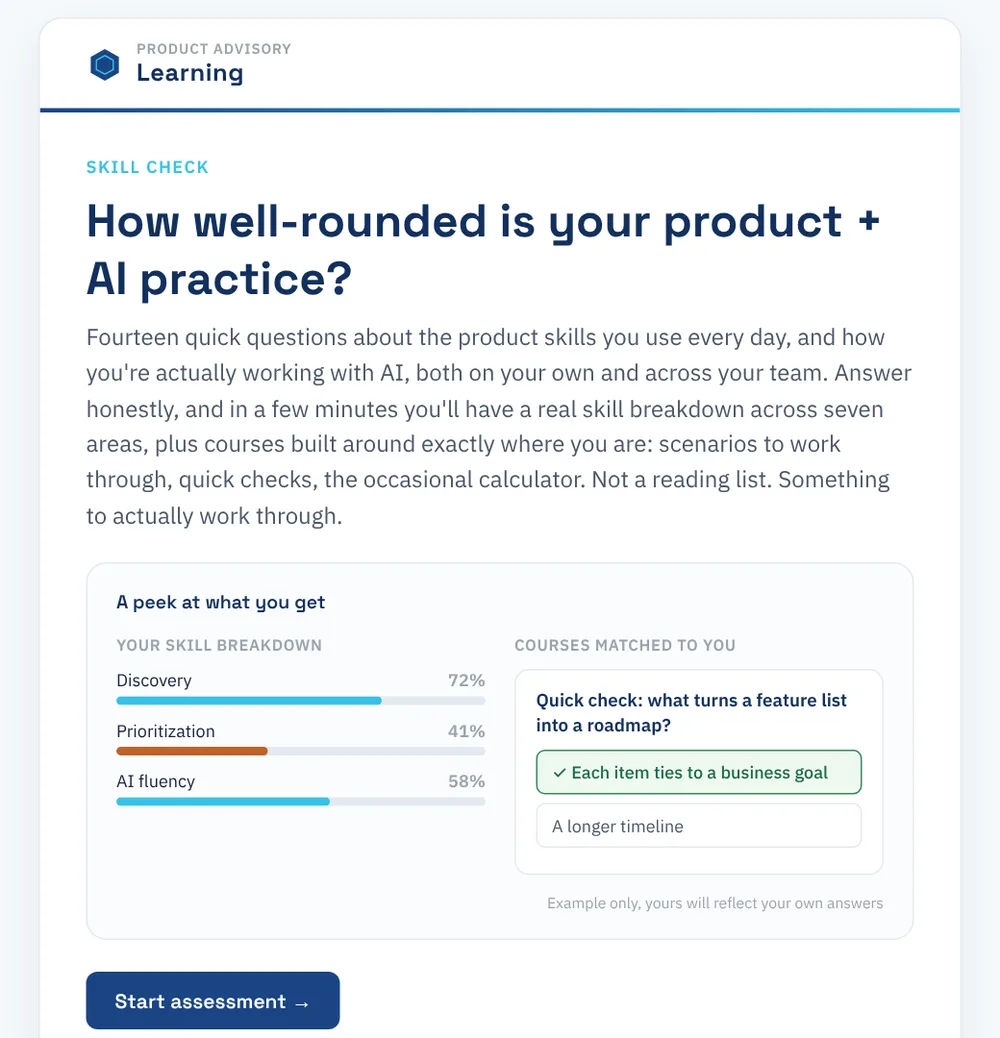
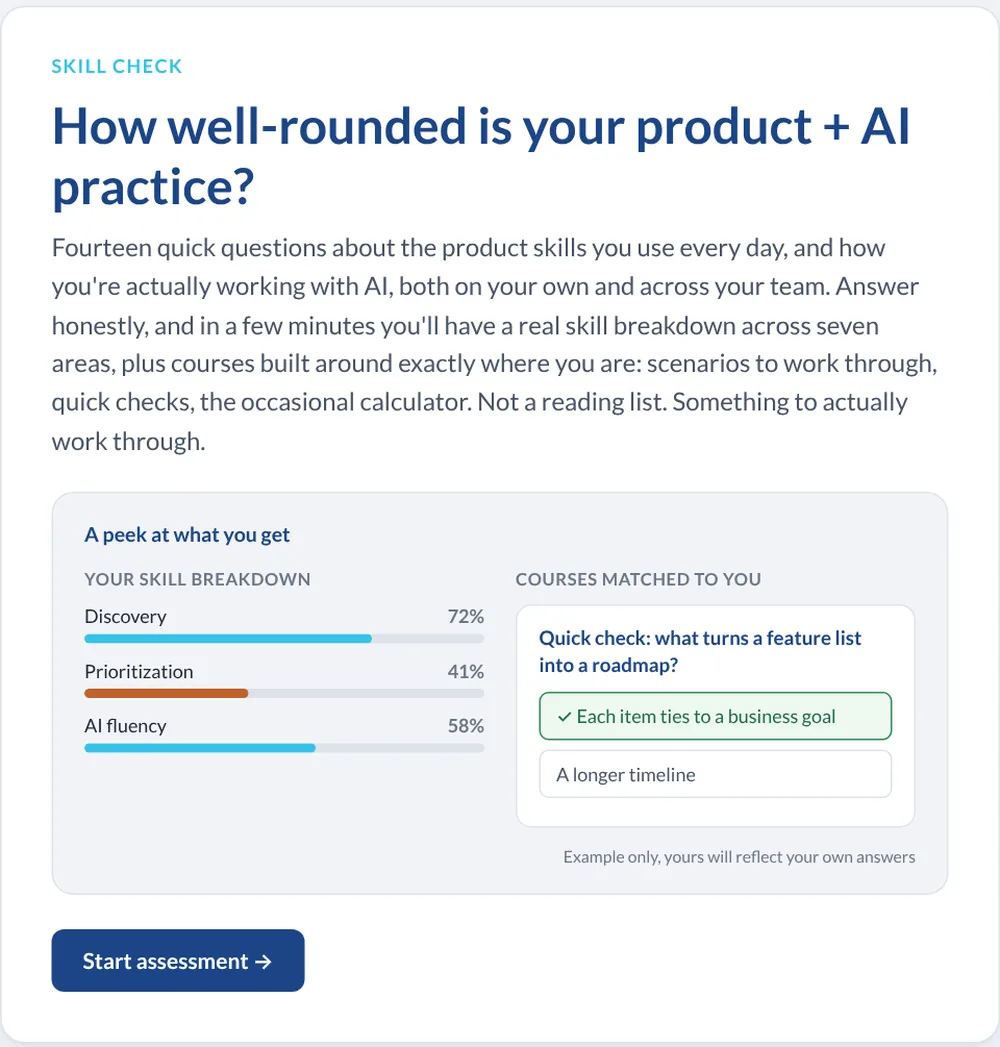
Work: refresh the assessment previews to the app's current look
Claude-Session: https://claude.ai/code/session_01H9Aqm6upnjq2tVp2gNzDcN

diff --git a/work.html b/work.html
@@ -90,7 +90,7 @@
                   <p>A self-assessment that places product managers by level and sends them to the learning that fits.</p>
                   <div class="tags"><span class="tag accent">Built by me</span><span class="tag">AI grading</span><span class="tag">Learning platform</span></div>
                 </div>
-                <img class="case-thumb" src="assets/img/previews/results.webp" alt="" width="1000" height="562" loading="lazy">
+                <img class="case-thumb" src="assets/img/previews/results.webp" alt="" width="1000" height="1095" loading="lazy">
                 <span class="plus" aria-hidden="true">+</span>
               </summary>
               <div class="case-body">
@@ -115,10 +115,10 @@
                 <div class="app-shots">
                   <h4>Inside the app</h4>
                   <div class="shot-grid">
-                    <a class="shot" href="assets/img/previews/assess.webp" target="_blank" rel="noopener"><img src="assets/img/previews/assess.webp" alt="Screenshot of the the skill check screen" width="1000" height="1038" loading="lazy"><span><b>The skill check</b>Fourteen questions across seven skill areas.</span><span class="sr-only"> (opens the full image in a new tab)</span></a>
-                    <a class="shot" href="assets/img/previews/results.webp" target="_blank" rel="noopener"><img src="assets/img/previews/results.webp" alt="Screenshot of the your results screen" width="1000" height="562" loading="lazy"><span><b>Your results</b>A score per area, with a strength and a growth area.</span><span class="sr-only"> (opens the full image in a new tab)</span></a>
-                    <a class="shot" href="assets/img/previews/lesson.webp" target="_blank" rel="noopener"><img src="assets/img/previews/lesson.webp" alt="Screenshot of the lessons screen" width="1000" height="1062" loading="lazy"><span><b>Lessons</b>Short lessons that ask you to predict before you read.</span><span class="sr-only"> (opens the full image in a new tab)</span></a>
-                    <a class="shot" href="assets/img/previews/company.webp" target="_blank" rel="noopener"><img src="assets/img/previews/company.webp" alt="Screenshot of the company report screen" width="1000" height="632" loading="lazy"><span><b>Company report</b>Plain-English takeaways and a funnel for admins.</span><span class="sr-only"> (opens the full image in a new tab)</span></a>
+                    <a class="shot" href="assets/img/previews/assess.webp" target="_blank" rel="noopener"><img src="assets/img/previews/assess.webp" alt="Screenshot of the the skill check screen" width="1000" height="1047" loading="lazy"><span><b>The skill check</b>Fourteen questions across seven skill areas.</span><span class="sr-only"> (opens the full image in a new tab)</span></a>
+                    <a class="shot" href="assets/img/previews/results.webp" target="_blank" rel="noopener"><img src="assets/img/previews/results.webp" alt="Screenshot of the your results screen" width="1000" height="1095" loading="lazy"><span><b>Your results</b>A radar and a score for each of the seven areas.</span><span class="sr-only"> (opens the full image in a new tab)</span></a>
+                    <a class="shot" href="assets/img/previews/lesson.webp" target="_blank" rel="noopener"><img src="assets/img/previews/lesson.webp" alt="Screenshot of the lessons screen" width="1000" height="659" loading="lazy"><span><b>Lessons</b>Story-led lessons that ask you to predict before you read.</span><span class="sr-only"> (opens the full image in a new tab)</span></a>
+                    <a class="shot" href="assets/img/previews/company.webp" target="_blank" rel="noopener"><img src="assets/img/previews/company.webp" alt="Screenshot of the company report screen" width="1000" height="651" loading="lazy"><span><b>Company report</b>Plain-English takeaways and a funnel for admins.</span><span class="sr-only"> (opens the full image in a new tab)</span></a>
                   </div>
                   <p class="shots-note">Screens are shown with sample data. No real people or companies appear.</p>
                 </div>
